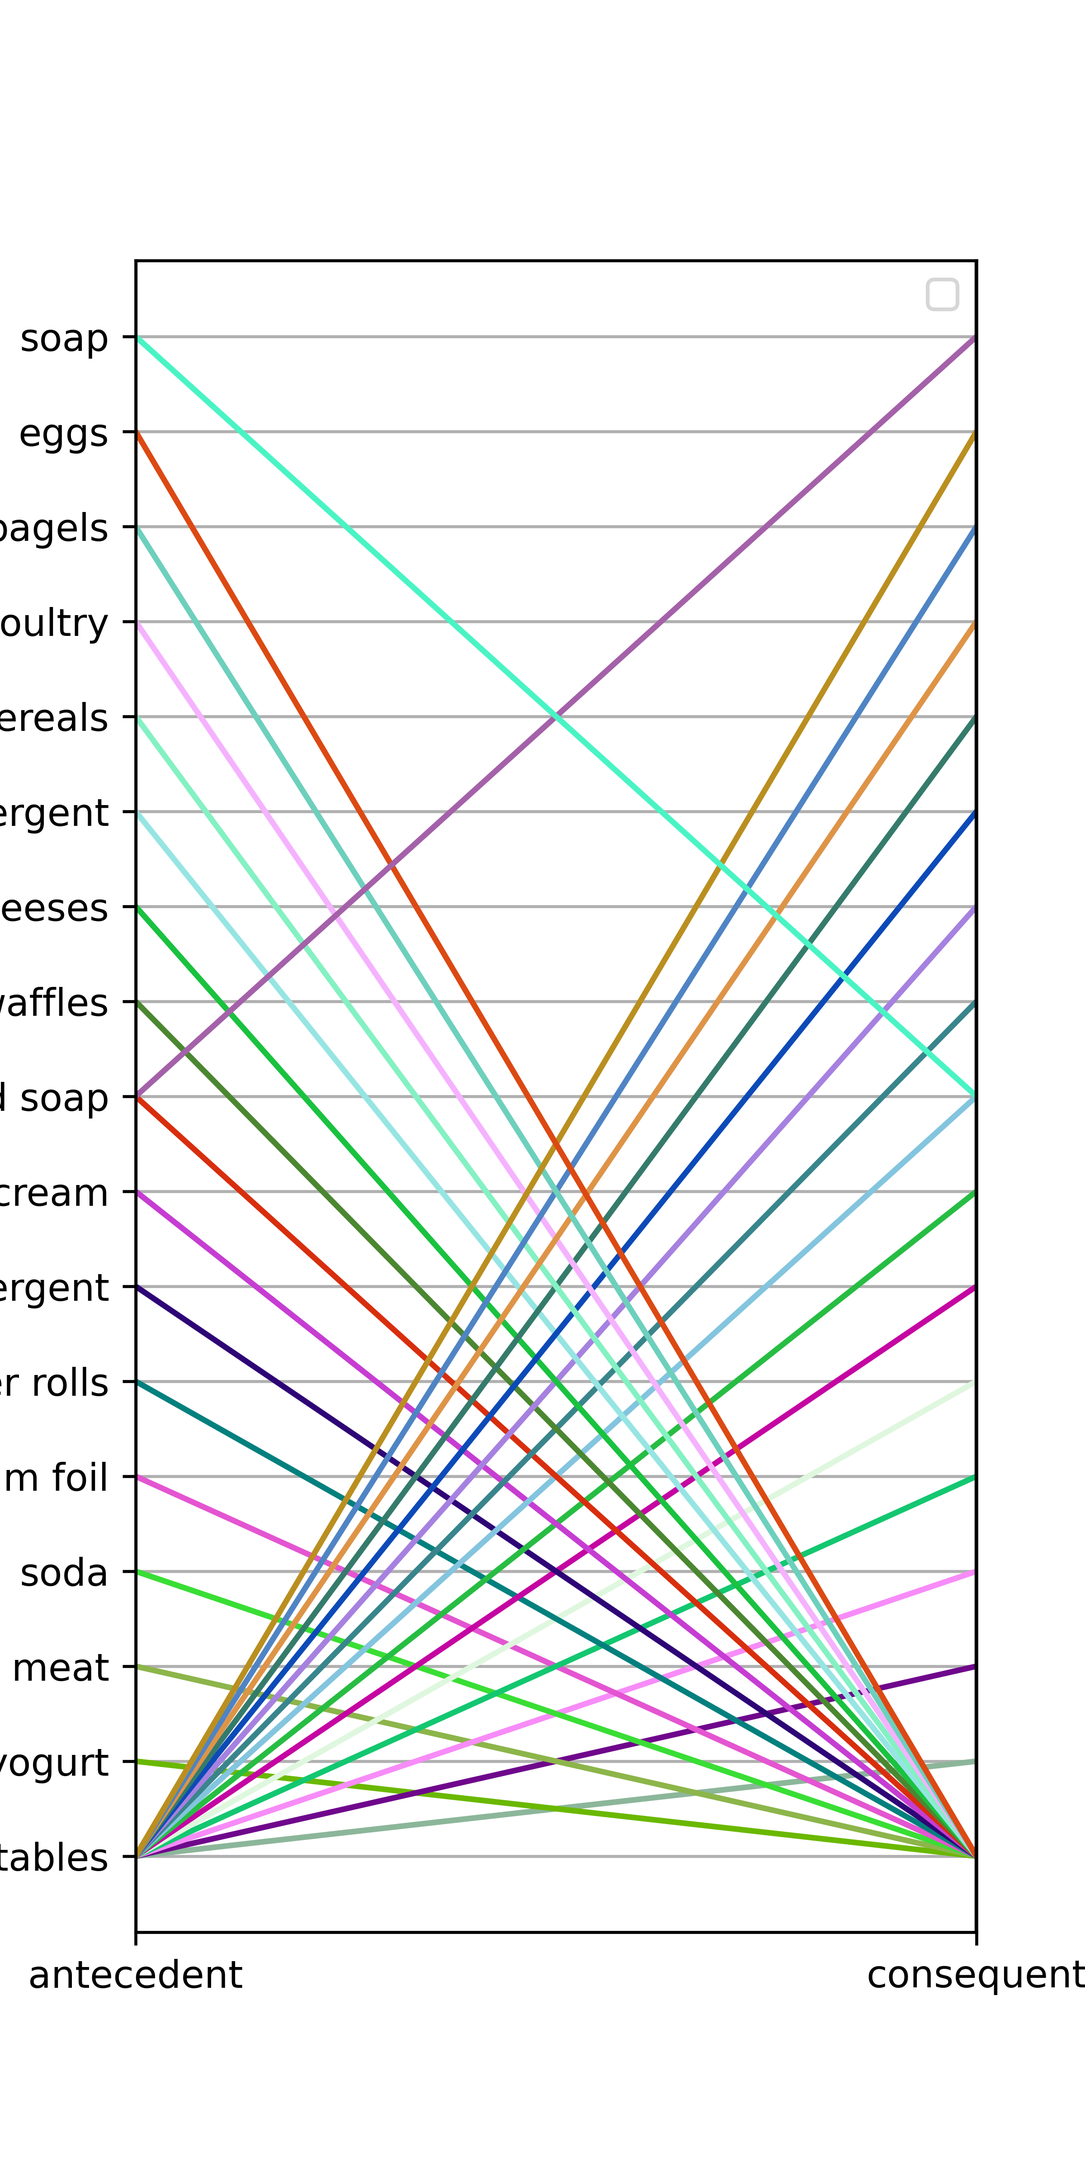
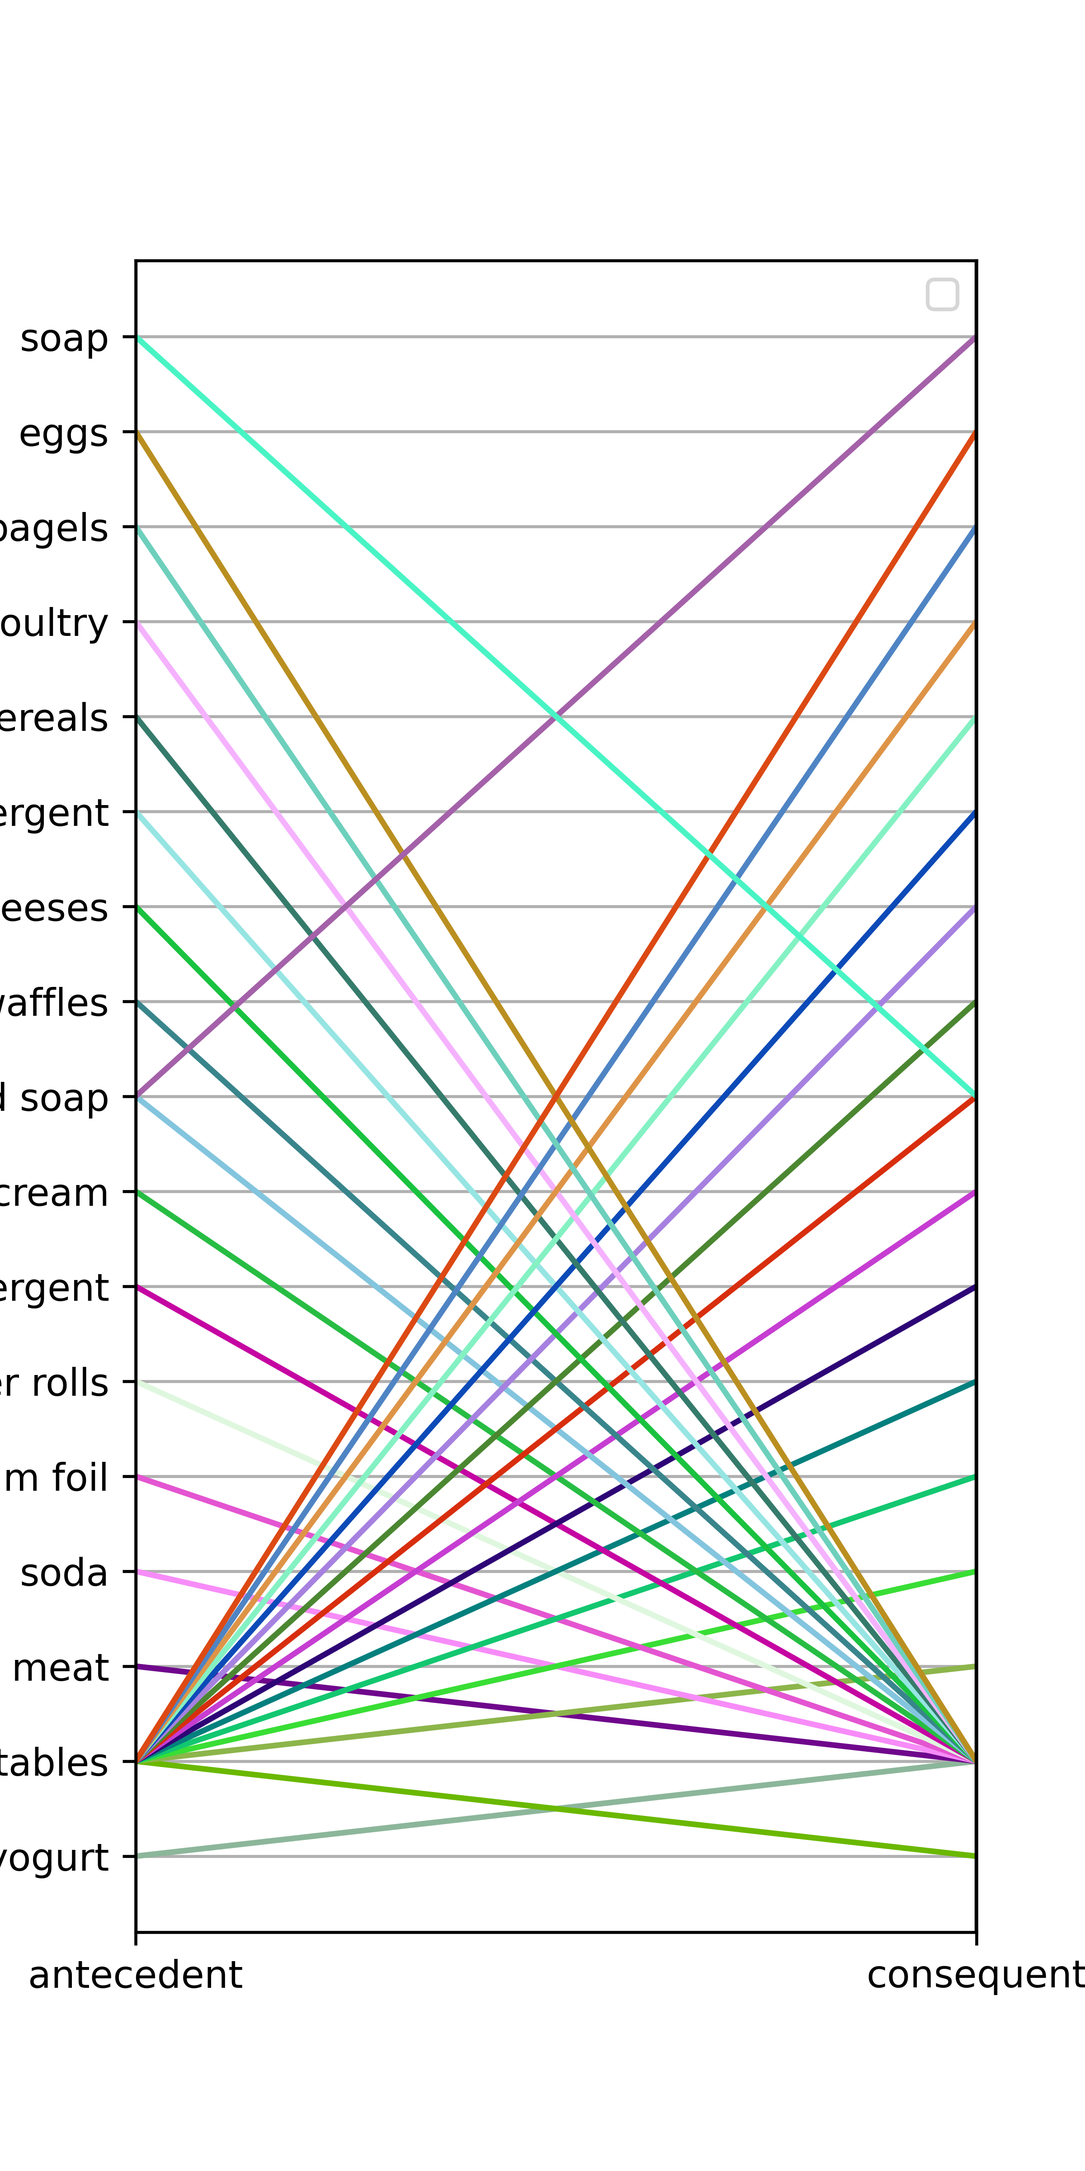
Product Recommendation Multiple Products

diff --git a/templates/association1.html b/templates/association1.html
@@ -19,18 +19,22 @@
     <!-- Core theme CSS (includes Bootstrap)-->
     <link rel="stylesheet" href="{{ url_for('static', filename='styles.css') }}"/>
     <style type="text/css">
-    li {
-     border-top: 1px solid beige;
-     padding: .3em 0;
-    }
+        li {
+            border-top: 1px solid beige;
+            padding: .3em 0;
+        }
 
-    ul {
-     margin-left: 40px;
-     padding-left: 0px;
-     border-bottom: 1px solid beige;
-     list-style: square inside url("sqpurple.gif");
-     width: 75%;
-    }
+        ul {
+            margin-left: 40px;
+            padding-left: 0px;
+            border-bottom: 1px solid beige;
+            list-style: square inside url("sqpurple.gif");
+            width: 75%;
+        }
+        table, th, td {
+          border: 1px solid black;
+          border-collapse: collapse;
+        }
     </style>
 </head>
 <body id="page-top">
@@ -59,43 +63,33 @@
     </div>
 </header>
 
-
-<section class="vh-100 gradient-custom">
-    <div class="container py-5 h-100">
-        <div class="row justify-content-center align-items-center h-50">
-            <div class="col-12 col-lg-9 col-xl-7">
-                <div class="card shadow-2-strong card-registration" style="border-radius: 15px;float:left;">
-                <div class="card shadow-2-strong card-registration" style="border-radius: 15px;float:right;">
-                    <img src="{{url_for('static', filename='plot1.png' ) }}"/>
-                </div>
-                    <div class="card-body p-3 p-md-5">
-                        <form action = "/rule" method = "POST">
-                            <div class="row">
-                                <div class="col-md-5 mb-2">
-                                    <div class="form-outline">
-                                        <label class="form-label">Select Items to Proceed ... </label>
-                                    </div>
-                                </div>
-                                <div class="container">
+<section class="vh-200 gradient-custom">
+    <div class="container py-8 h-200">
+        <div class="row d-flex justify-content-center align-items-center h-100">
+            <div class="col">
+                <div class="card card-registration card-registration-2 my-4">
+                    <div class="row g-0">
+                        <div class="col-xl-6 d-none d-xl-block">
+                            <img
+                                    src="{{ url_for('static', filename='plot1.png' ) }} " width="90%" height="600px"
+                                    alt="Parallel Plot for generated rules"
+                                    class="img-fluid"
+                                    style="border-top-left-radius: .25rem; border-bottom-left-radius: .25rem;"
+                            />
+                        </div>
+                        <div class="col-xl-6  bg-indigo">
+                            <div class="card-body p-md-5 text-white bg-indigo">
+                                <form action="/rule" method="POST">
+                                    <h3 class="mb-5 text-uppercase">Select Items to Proceed ... </h3>
                                     <div class="row">
-                                        <div class="col-4">
-                                            <select class="select form-control" name = "item_select1">
-                                                <option value="0"></option>
-                                                <option value="pork">pork</option>
-                                                <option value="sandwich bags">sandwich bags</option>
-                                                <option value="lunch meat">lunch meat</option>
-                                                <option value="all- purpose">all- purpose</option>
-                                                <option value="flour">flour</option>
-                                                <option value="soda">soda</option>
-                                                <option value="butter">butter</option>
-                                                <option value="vegetables">vegetables</option>
-                                                <option value="soap">soap</option>
-                                                <option value="hand soap">hand soap</option>
-                                                <option value="poultry">poultry</option>
-                                            </select>
+                                        <div class="col-md-4 mb-4">
+
+                                            <label class="form-check-label" >Select Item 1</label>
+
                                         </div>
-                                        <div class="col-4">
-                                            <select class="select form-control" name = "item_select2">
+                                        <div class="col-md-6 mb-4">
+
+                                            <select class="select form-control" name="item_select1">
                                                 <option value="0"></option>
                                                 <option value="pork">pork</option>
                                                 <option value="sandwich bags">sandwich bags</option>
@@ -109,41 +103,92 @@
                                                 <option value="hand soap">hand soap</option>
                                                 <option value="poultry">poultry</option>
                                             </select>
-                                        </div>
-                                        <div class="col-4">
-                                            <select class="select form-control" name = "item_select3">
-                                                <option value="0"></option>
-                                                <option value="pork">pork</option>
-                                                <option value="sandwich bags">sandwich bags</option>
-                                                <option value="lunch meat">lunch meat</option>
-                                                <option value="all- purpose">all- purpose</option>
-                                                <option value="flour">flour</option>
-                                                <option value="soda">soda</option>
-                                                <option value="butter">butter</option>
-                                                <option value="vegetables">vegetables</option>
-                                                <option value="soap">soap</option>
-                                                <option value="hand soap">hand soap</option>
-                                                <option value="poultry">poultry</option>
-                                            </select>
+
                                         </div>
                                     </div>
-                                </div>
+                                                     <div class="row">
+                                        <div class="col-md-4 mb-4">
 
-                                <div class="mt-4 pt-2">
-                                    <input class="btn btn-primary btn-sm" type="submit" value="Submit"/>
-                                </div>
-                                <div class="mt-4 pt-2">
-                                    {%  if pattern1 %}
-                                        <h3 style="font-family: arial;font-size: 18pt;color: blue;">{{pattern1|length}} combinations for {{items}} as antecedents</h3>
-                                        <ul>
-                                        {% for i in range (0,pattern1|length) %}
-                                            <li>{{items}} -> {{ pattern1[i] }}</li>
-                                        {% endfor %}
-                                        </ul>
-                                    {%endif%}
-                                </div>
+                                            <label class="form-check-label" for="maleGender">Select Item 2</label>
+
+                                        </div>
+                                        <div class="col-md-6 mb-4">
+
+                                            <select class="select form-control" name="item_select2">
+                                                <option value="0"></option>
+                                                <option value="pork">pork</option>
+                                                <option value="sandwich bags">sandwich bags</option>
+                                                <option value="lunch meat">lunch meat</option>
+                                                <option value="all- purpose">all- purpose</option>
+                                                <option value="flour">flour</option>
+                                                <option value="soda">soda</option>
+                                                <option value="butter">butter</option>
+                                                <option value="vegetables">vegetables</option>
+                                                <option value="soap">soap</option>
+                                                <option value="hand soap">hand soap</option>
+                                                <option value="poultry">poultry</option>
+                                            </select>
+
+                                        </div>
+                                    </div>
+                                                     <div class="row">
+                                        <div class="col-md-4 mb-4">
+
+                                            <label class="form-check-label" for="maleGender">Select Item 3</label>
+
+                                        </div>
+                                        <div class="col-md-6 mb-4">
+
+                                            <select class="select form-control" name="item_select3">
+                                                <option value="0"></option>
+                                                <option value="pork">pork</option>
+                                                <option value="sandwich bags">sandwich bags</option>
+                                                <option value="lunch meat">lunch meat</option>
+                                                <option value="all- purpose">all- purpose</option>
+                                                <option value="flour">flour</option>
+                                                <option value="soda">soda</option>
+                                                <option value="butter">butter</option>
+                                                <option value="vegetables">vegetables</option>
+                                                <option value="soap">soap</option>
+                                                <option value="hand soap">hand soap</option>
+                                                <option value="poultry">poultry</option>
+                                            </select>
+
+                                        </div>
+                                    </div>
+
+
+                                    <div class="d-flex justify-content-end pt-3">
+                                        <button type="button" class="btn btn-warning btn-lg ms-2">Clear</button>
+                                        <button type="submit" value="Submit" class="btn btn-warning btn-lg ms-2">
+                                            Show Consequent Products
+                                        </button>
+                                    </div>
+                                    <div class="mt-4 pt-2">
+                                        {% if pattern1 %}
+                                            <h3 style="font-family: arial;font-size: 18pt;color: black;">{{ pattern1|length }}
+                                                Consequent Products for {{ items }} </h3>
+                                            <ul>
+                                                {% for i in range (0,pattern1|length) %}
+                                                    <li> {{ " , ".join(pattern1[i]) }}</li>
+                                                {% endfor %}
+                                            </ul>
+                                            <table class="table  table-sm table-hover table-striped" style="width:75%" id = "tableWithBgImage">
+                                            {% for i in range (0,pattern1|length) %}
+                                                  <tr class="table-danger">
+                                                    <td class="table-warning">{{ " , ".join(pattern1[i]) }}</td>
+                                                  </tr>
+                                            {% endfor %}
+                                            </table>
+                                        {% else %}
+                                            {% if items %}
+                                                <h3 style="font-family: arial;font-size: 18pt;color: blue;">No combinations for {{ items }}</h3>
+                                            {% endif %}
+                                        {% endif %}
+                                    </div>
+                                </form>
                             </div>
-                        </form>
+                        </div>
                     </div>
                 </div>
             </div>

diff --git a/templates/association.html b/templates/association.html
@@ -31,6 +31,10 @@
             list-style: square inside url("sqpurple.gif");
             width: 75%;
         }
+        table, th, td {
+          border: 2px solid black;
+          border-collapse: collapse;
+        }
     </style>
 </head>
 <body id="page-top">
@@ -59,8 +63,8 @@
     </div>
 </header>
 
-<section class="vh-200 gradient-custom">
-    <div class="container py-8 h-200">
+<section class="vh-400 gradient-custom">
+    <div class="container py-10 h-500">
         <div class="row d-flex justify-content-center align-items-center h-100">
             <div class="col">
                 <div class="card card-registration card-registration-2 my-4">
@@ -155,20 +159,22 @@
 
 
                                     <div class="d-flex justify-content-end pt-3">
-                                        <button type="button" class="btn btn-light btn-lg">Reset</button>
+                                        <button type="button" class="btn btn-warning btn-lg ms-2">Clear</button>
                                         <button type="submit" value="Submit" class="btn btn-warning btn-lg ms-2">
-                                            Submit
+                                            Show Consequent Products
                                         </button>
                                     </div>
                                     <div class="mt-4 pt-2">
                                         {% if pattern1 %}
-                                            <h3 style="font-family: arial;font-size: 18pt;color: blue;">{{ pattern1|length }}
-                                                combinations for {{ items }} as antecedents</h3>
-                                            <ul>
-                                                {% for i in range (0,pattern1|length) %}
-                                                    <li>{{ items }} -> {{ pattern1[i] }}</li>
-                                                {% endfor %}
-                                            </ul>
+                                            <h3 style="font-family: arial;font-size: 18pt;color: black;">{{ pattern1|length }}
+                                                Consequent Products for {{ items }} </h3>
+                                            <table class="table table-sm table-hover table-striped" style="width:100% ">
+                                            {% for i in range (0,pattern1|length) %}
+                                                  <tr >
+                                                    <td>{{ " , ".join(pattern1[i]) }}</td>
+                                                  </tr>
+                                            {% endfor %}
+                                            </table>
                                         {% else %}
                                             {% if items %}
                                                 <h3 style="font-family: arial;font-size: 18pt;color: blue;">No combinations for {{ items }}</h3>

diff --git a/static/styles.css b/static/styles.css
@@ -11593,3 +11593,12 @@ header.masthead1 h1, header.masthead1 .h1 {
     border-bottom-right-radius: 15px;
   }
 }
+
+.table{
+    background-repeat: no-repeat;
+    background: linear-gradient(to bottom, rgba(236, 210, 113, 0.4) 0%, rgba(233, 135, 16, 0.3) 100%), url("../static/b1.jpg");
+    /**background-image: url("../static/b1.jpg");
+     background: linear-gradient(to bottom, rgba(25, 121, 255, 0.2) 0%, rgba(25,121,163, 0.2) 100%), url("../static/images/baby.jpg");**/
+    height: 600px;
+    width: 600px;
+}

diff --git a/util1.py b/util1.py
@@ -8,7 +8,7 @@ from mlxtend.frequent_patterns import apriori
 from mlxtend.frequent_patterns import association_rules
 
 
-def recommend_product(item_list):
+def recommend_product(item1, item2, item3):
     df = pd.read_csv("dataset_group.csv", header=None)
     df.columns = ["Date", "ID", "Items"]
 
@@ -36,21 +36,12 @@ def recommend_product(item_list):
     frequent_itemsets = apriori(df.drop(['ID'], axis=1), min_support=0.3, use_colnames=True)
     frequent_itemsets['length'] = frequent_itemsets['itemsets'].apply(lambda x: len(x))
     rules = association_rules(frequent_itemsets, metric="confidence", min_threshold=0.1)
-
-    rules['antecedent'] = rules['antecedents'].apply(lambda antecedent: list(antecedent))
-    rules['consequent'] = rules['consequents'].apply(lambda consequent: list(consequent))
-    rules['rule'] = rules.index
     print(rules)
-
+    consequent_list = rules.consequents[rules.antecedents.apply(str).str.contains(item1, item2)]
     cons_list = []
-    for i in range(1, len(rules)):
-        check = all(item in (rules['antecedent'][i]) for item in item_list)
-        if check is True:
-            c_list = set(list(rules['consequents'])[i])
-            cons_list.append(c_list)
-    print(cons_list)
-    #print(cons_list[0])
-    #print(" , ".join(cons_list[4]))
+    for i in range(0, len(consequent_list)):
+        c_list = set(list(consequent_list)[i])
+        cons_list.append(c_list)
 
     return cons_list
 

diff --git a/app.py b/app.py
@@ -73,6 +73,7 @@ def predict():
 def pattern_analysis():
     listed = ""
     items_selected = []
+    item_list = []
     if request.method == "POST":
         item_select1 = request.form.get('item_select1')
         item_select2 = request.form.get('item_select2')
@@ -80,13 +81,16 @@ def pattern_analysis():
 
         if item_select1 != "0":
             items_selected.append(item_select1+ "    ")
+            item_list.append(item_select1)
         if item_select2 != "0":
             items_selected.append(item_select2)
+            item_list.append(item_select2)
         if item_select3 != "0":
             items_selected.append(item_select3)
+            item_list.append(item_select3)
 
         item_selected = " , ".join([str(item) for item in items_selected])
-        listed = util.recommend_product(item_select1, item_select2, item_select3)
+        listed = util.recommend_product(item_list)
 
     return render_template('association.html', pattern1=listed,items=item_selected)
 
